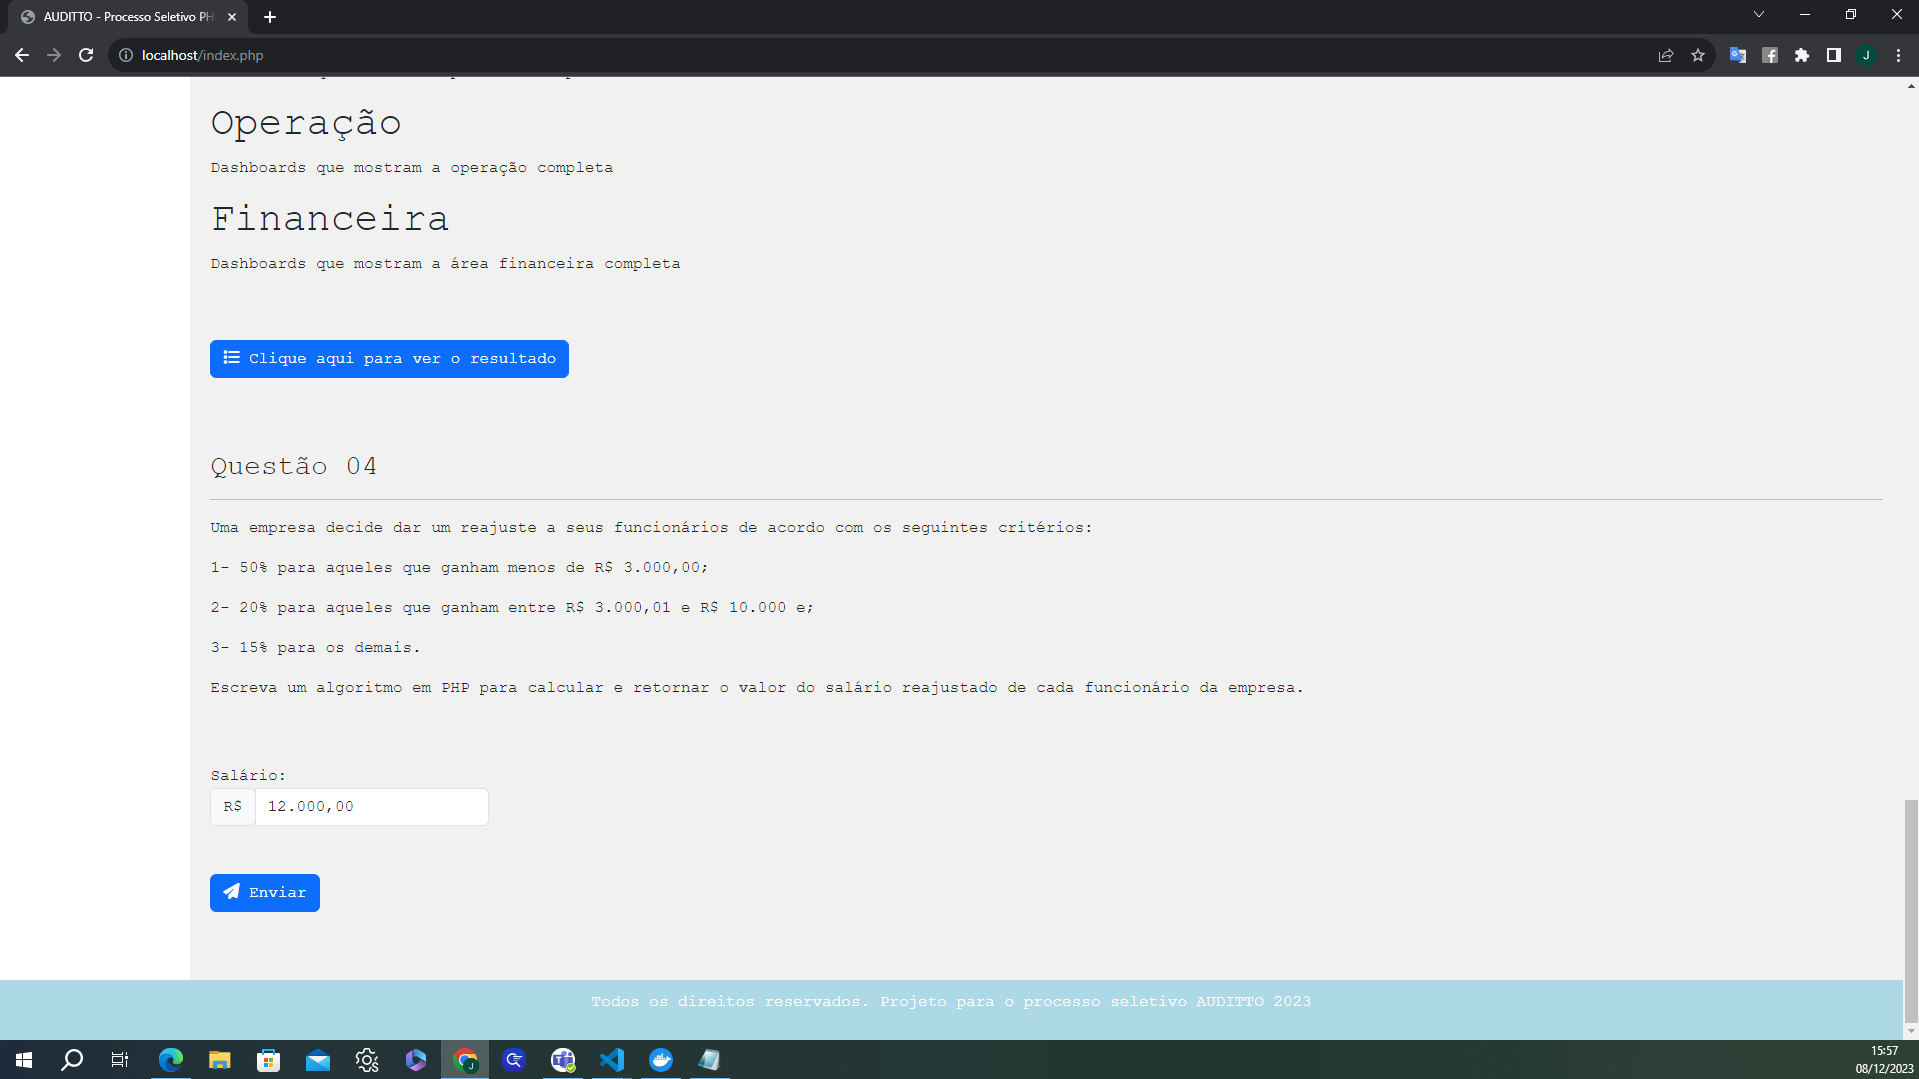
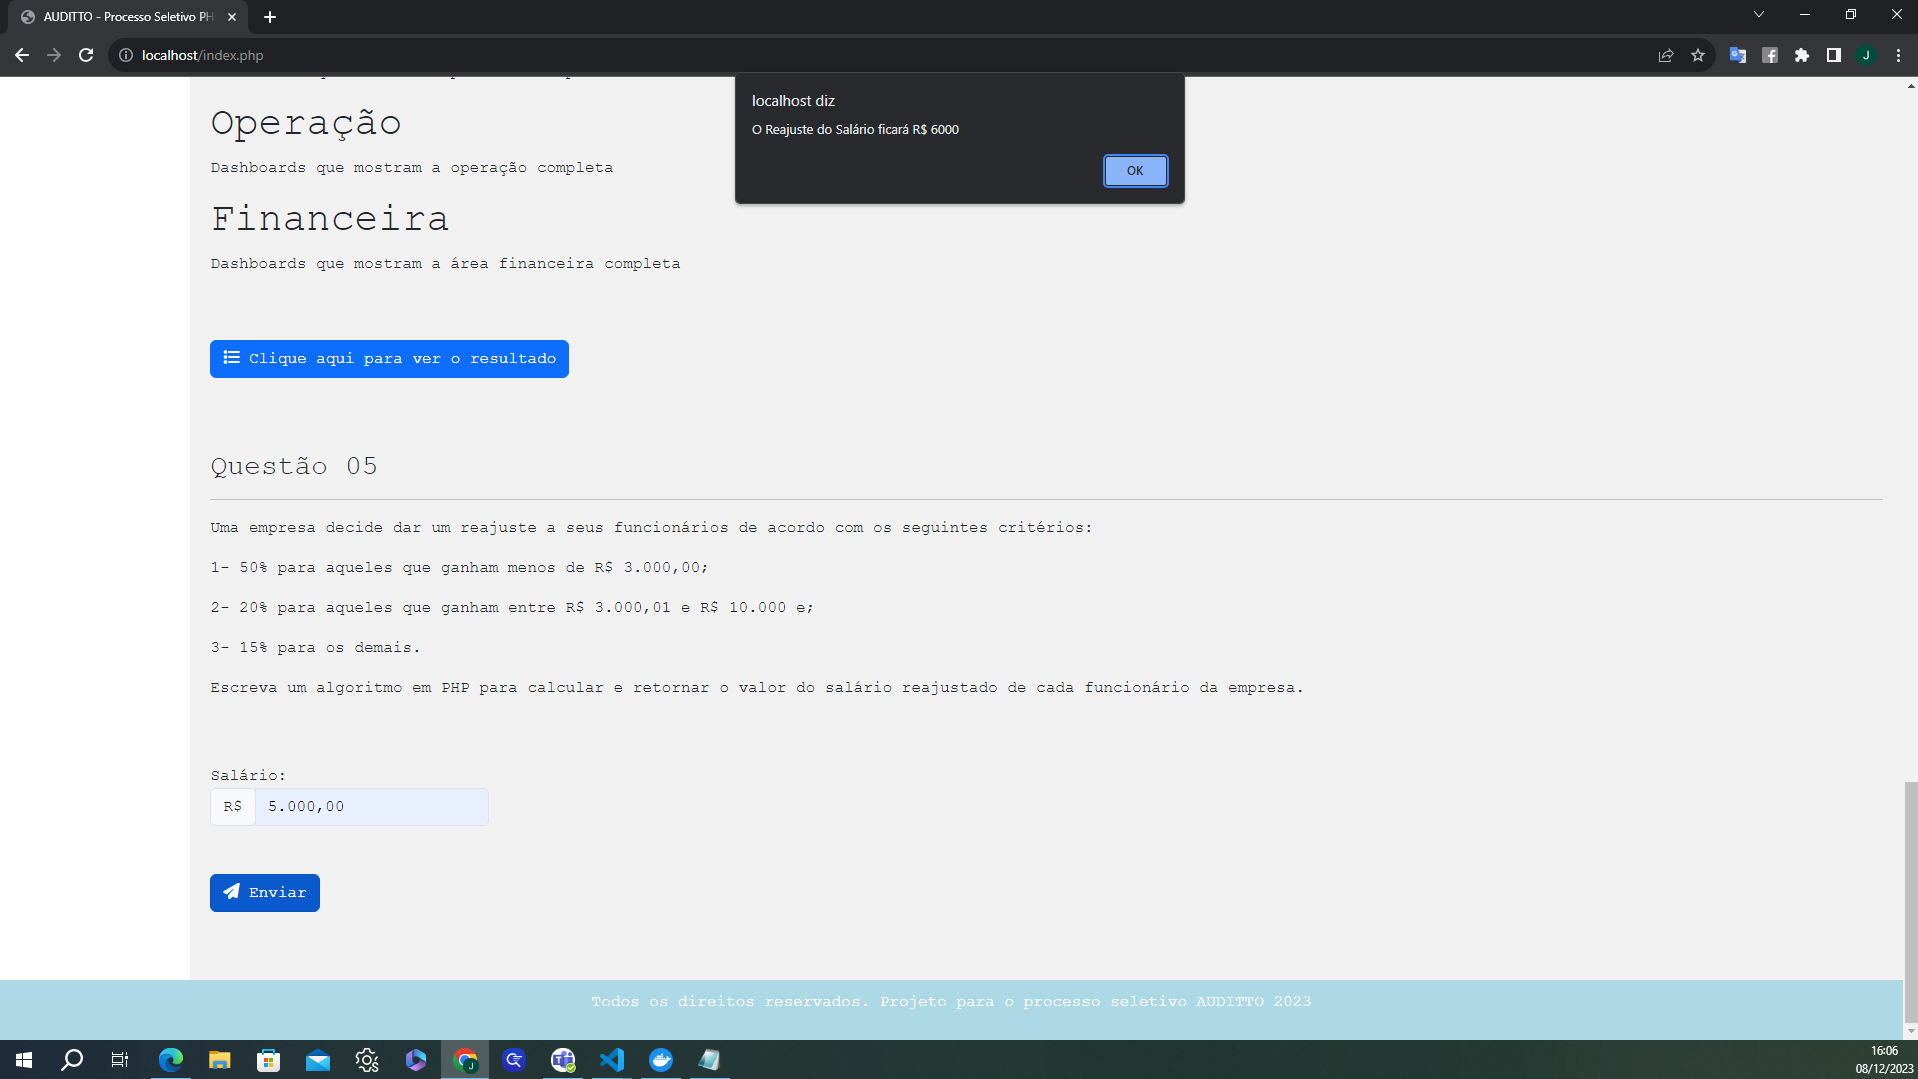
pequena correção no numero da questão 5.

diff --git a/src/view/home.php b/src/view/home.php
@@ -105,7 +105,7 @@
 
         <br><br>
 
-        <h3>Questão 04</h3><hr>
+        <h3>Questão 05</h3><hr>
         <p>Uma empresa decide dar um reajuste a seus funcionários de acordo com os seguintes critérios:</p>
         <p>1- 50% para aqueles que ganham menos de R$ 3.000,00;</p>
         <p>2- 20% para aqueles que ganham entre R$ 3.000,01 e R$ 10.000 e;</p>
